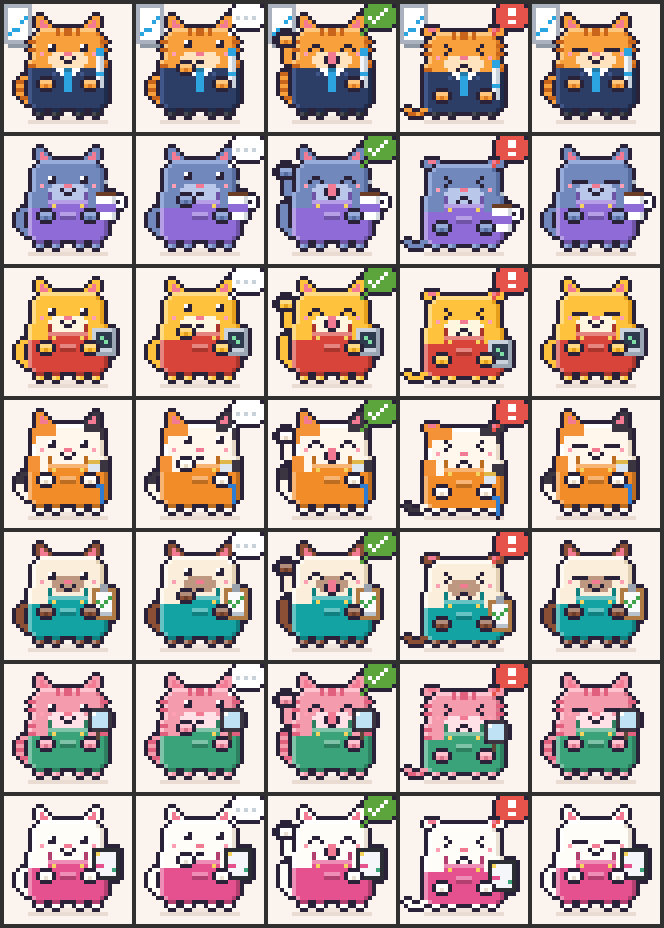
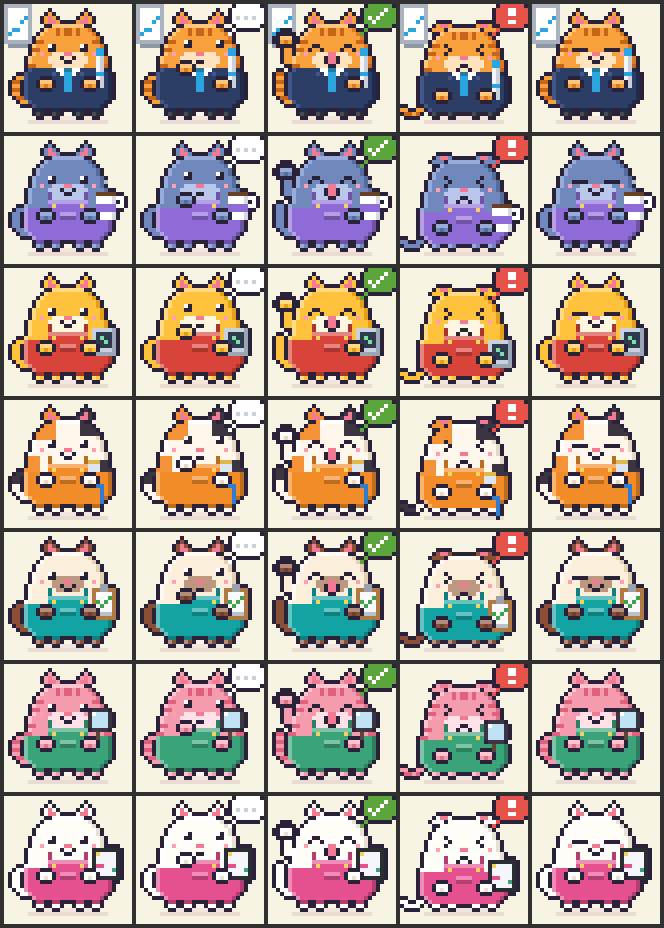
agent-office-cats 0.14.0: rice-ball cats
The cats' body is now onigiri-shaped, set row by row: a small round
crown, evenly sloping shoulders, a broad rounded base, instead of a box.
Ears sit on the crown and the tail curls out beside the wider base; coat
markings paint only fur so they never bump the outline. The walker on
the progress bar gets the same round crown.

diff --git a/hooks/cats.ts b/hooks/cats.ts
@@ -47,14 +47,13 @@ const BLUSH = '#FF9FB2'
 
 const trio = (c: string): Trio => [c, mixHex(c, '#FFFFFF', 0.35), mixHex(c, '#000000', 0.22)]
 
-/** The blob from the top of the head to the bottom of the belly: [y, x0, x1]. */
-const BODY: [number, number, number][] = [
-  [6, 9, 22],
-  [7, 8, 23],
-  ...[8, 9, 10, 11, 12, 13].map((y): [number, number, number] => [y, 7, 24]),
-  ...[14, 15, 16, 17, 18, 19, 20, 21, 22, 23, 24].map((y): [number, number, number] => [y, 6, 25]),
-  [25, 7, 24],
-]
+/**
+ * The body from the top of the head to the bottom of the belly, [y, x0, x1]:
+ * a rice ball (onigiri), a rounded crown widening smoothly to a broad base,
+ * its bottom corners rounded off.
+ */
+const LEFT = [12, 10, 9, 8, 8, 7, 7, 7, 6, 6, 6, 6, 5, 5, 5, 5, 5, 5, 5, 6, 7] // x0 for y = 5..25
+const BODY: [number, number, number][] = LEFT.map((x0, i): [number, number, number] => [5 + i, x0, 31 - x0])
 
 /**
  * One frame as rows of colors, like robotGrid: `null` is backdrop, every other
@@ -101,10 +100,10 @@ export function catGrid(role: Role, pose: Pose, frame: number): (string | null)[
 
   // the tail, behind the body: curled up, up straight when cheering, flat on failure
   const tailPath: [number, number][] = done
-    ? [[5, 24], [4, 23], [3, 22], [3, 21], [3, 20], [3, 19], [3, 18], [3, 17]]
+    ? [[4, 24], [3, 23], [2, 22], [2, 21], [2, 20], [2, 19], [2, 18], [2, 17]]
     : fail
-      ? [[5, 26], [4, 27], [3, 27], [2, 27], [1, 26]]
-      : [[5, 24], [4, 23], [3, 22], [3, 21], [3, 20], [3, 19], [4, 18]]
+      ? [[4, 26], [3, 27], [2, 27], [1, 27], [0, 26]]
+      : [[4, 24], [3, 23], [2, 22], [2, 21], [2, 20], [2, 19], [3, 18]]
   const sway = walk ? [0, -1, 0, 1][f % 4] ?? 0 : 0
   tailPath.forEach(([x, y], i) => {
     const dx = !done && !fail && y <= 20 ? sway : 0
@@ -129,9 +128,9 @@ export function catGrid(role: Role, pose: Pose, frame: number): (string | null)[
   const earFur = (left: boolean) => (C.coat === 'pointed' ? points[0] : C.coat === 'calico' ? (left ? C.mark : C.mark2) ?? fur[0] : fur[0])
   const ear = (left: boolean) => {
     const m = (x: number) => (left ? x : 31 - x)
-    const rows: [number, number, number][] = fail ? [[5, 6, 9], [6, 6, 7]] : [[3, 8, 9], [4, 8, 10], [5, 8, 11]]
+    const rows: [number, number, number][] = fail ? [[4, 9, 12], [5, 8, 10]] : [[2, 11, 11], [3, 10, 12], [4, 10, 13]]
     for (const [y, a, b] of rows) for (let x = a; x <= b; x++) put(m(x), y + hy, earFur(left))
-    const inner: [number, number, number][] = fail ? [[5, 7, 8]] : [[4, 9, 9], [5, 9, 10]]
+    const inner: [number, number, number][] = fail ? [[4, 10, 11]] : [[3, 11, 11], [4, 11, 12]]
     for (const [y, a, b] of inner) for (let x = a; x <= b; x++) put(m(x), y + hy, NOSE)
   }
   ear(true)
@@ -146,16 +145,21 @@ export function catGrid(role: Role, pose: Pose, frame: number): (string | null)[
     if (y === bottom) box(x0 + 1, yy, x1, yy, fur[2])
   }
 
-  // coat markings and the pale chest
+  // coat markings and the pale chest, painted only on fur so the round outline stays round
+  const furs = new Set<string>(fur)
+  const coat = (x0: number, y0: number, x1: number, y1: number, c: string) => {
+    for (let y = y0; y <= y1; y++) for (let x = x0; x <= x1; x++) if (furs.has(fg[y]?.[x] ?? '')) put(x, y, c)
+  }
+  const edge = (y: number) => BODY.find(([by0]) => by0 === y) ?? [y, 15, 16]
   if (C.chest) for (const [y, a, b] of [[12, 12, 19], [13, 11, 20], [14, 11, 20], [15, 12, 19]] as const) box(a, y + hy, b, y + hy, C.chest)
   if (C.coat === 'tabby' && C.mark) {
     for (const [x, y] of [[13, 6], [13, 7], [15, 6], [16, 6], [15, 7], [16, 7], [18, 6], [18, 7]] as const) put(x, y + hy, C.mark)
-    for (const y of [9, 11, 15, 17]) { box(6, y + hy, 7, y + hy, C.mark); box(24, y + hy, 25, y + hy, C.mark) }
+    for (const y of [9, 11, 15, 17]) { const [, x0, x1] = edge(y); coat(x0, y + hy, x0 + 1, y + hy, C.mark); coat(x1 - 1, y + hy, x1, y + hy, C.mark) }
   }
   if (C.coat === 'calico' && C.mark && C.mark2) {
-    box(8, 6 + hy, 12, 8 + hy, C.mark); box(7, 7 + hy, 7, 10 + hy, C.mark)
-    box(20, 6 + hy, 23, 7 + hy, C.mark2); box(24, 7 + hy, 24, 9 + hy, C.mark2)
-    box(6, 14 + hy, 8, 17 + hy, C.mark); box(23, 15 + hy, 25, 17 + hy, C.mark2)
+    coat(6, 5 + hy, 12, 9 + hy, C.mark)
+    coat(19, 5 + hy, 25, 8 + hy, C.mark2)
+    coat(4, 14 + hy, 8, 17 + hy, C.mark); coat(23, 15 + hy, 27, 17 + hy, C.mark2)
   }
   if (C.coat === 'pointed') {
     const mask = mixHex(points[0], fur[0], 0.45)

diff --git a/hooks/stage.ts b/hooks/stage.ts
@@ -400,13 +400,13 @@ function pixelArt(rows: readonly string[], colors: Record<string, string>, outli
   }))
 }
 
-/** The lead cat in small: the orange tabby's head over its suit collar and tie. */
+/** The lead cat in small, rice-ball round: the orange tabby's head over its suit collar and tie. */
 const WALKER = [
-  '.O.........O.',
-  '.OO.......OO.',
-  '.OPO.....OPO.',
-  'OOOOOROROOOOO',
-  'OOOOOOOOOOOOO',
+  '..O.......O..',
+  '..OP.....PO..',
+  '..OOOOOOOOO..',
+  '.OOOOROROOOO.',
+  '.OOOOOOOOOOO.',
   'OOWEOOOOOWEOO',
   'OOEEOOOOOEEOO',
   'OKOOOONOOOOKO',

diff --git a/CHANGELOG.md b/CHANGELOG.md
@@ -4,6 +4,14 @@ Each version of agent-office-cats, newest first (0.6.0 and earlier are
 Saharat's agent-stage). Update with
 `claude plugin update agent-office-cats@jitapa-mods`, then `/reload-plugins`.
 
+## 0.14.0 (2026-10-14)
+
+**Rice-ball cats.**
+
+- The cats are shaped like onigiri: a small round crown, shoulders sloping evenly out to a broad, rounded base, instead of a box. The ears sit on the crown, the tail curls out beside the wider base.
+- Coat markings are painted only on fur, so stripes and patches never bump the round outline.
+- The little cat walking the progress bar has the same round crown.
+
 ## 0.13.0 (2026-10-14)
 
 **A matcha café.**
